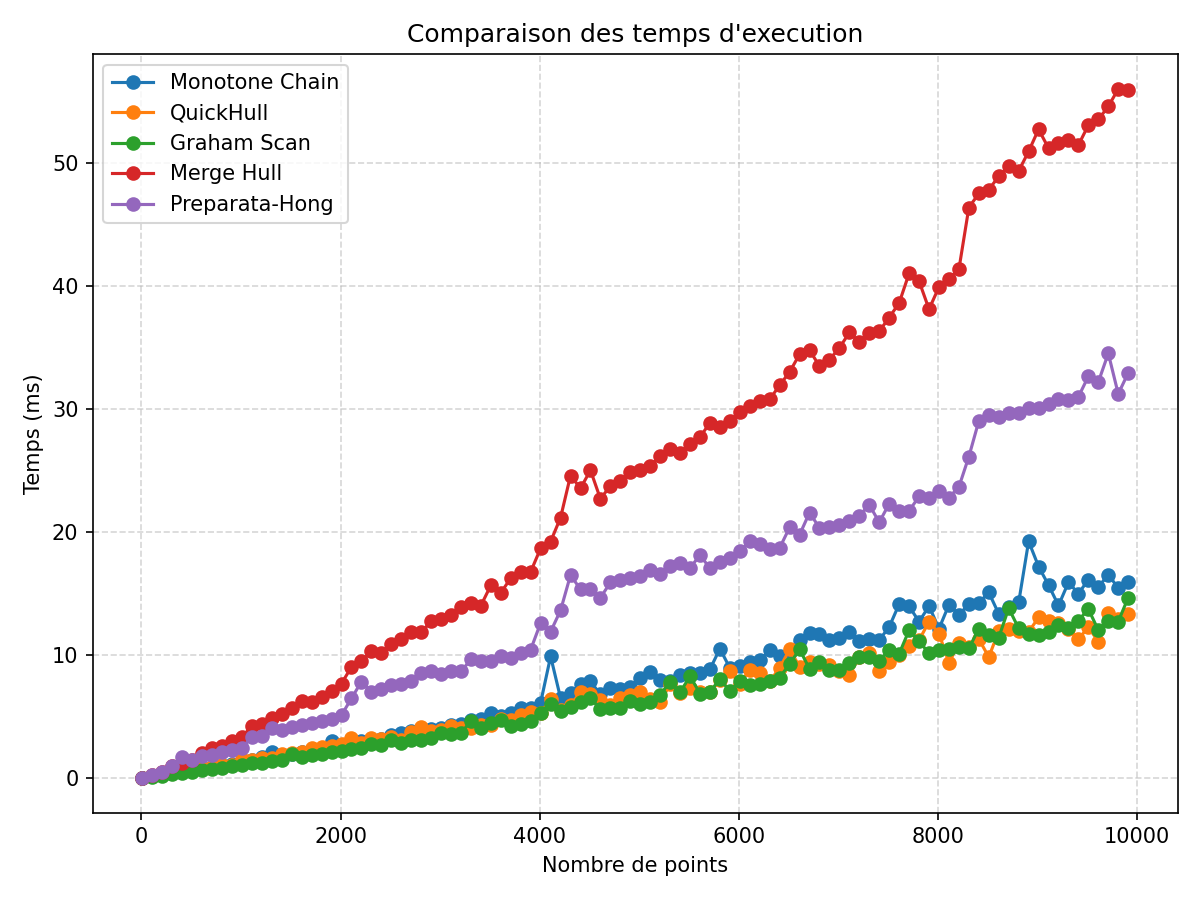
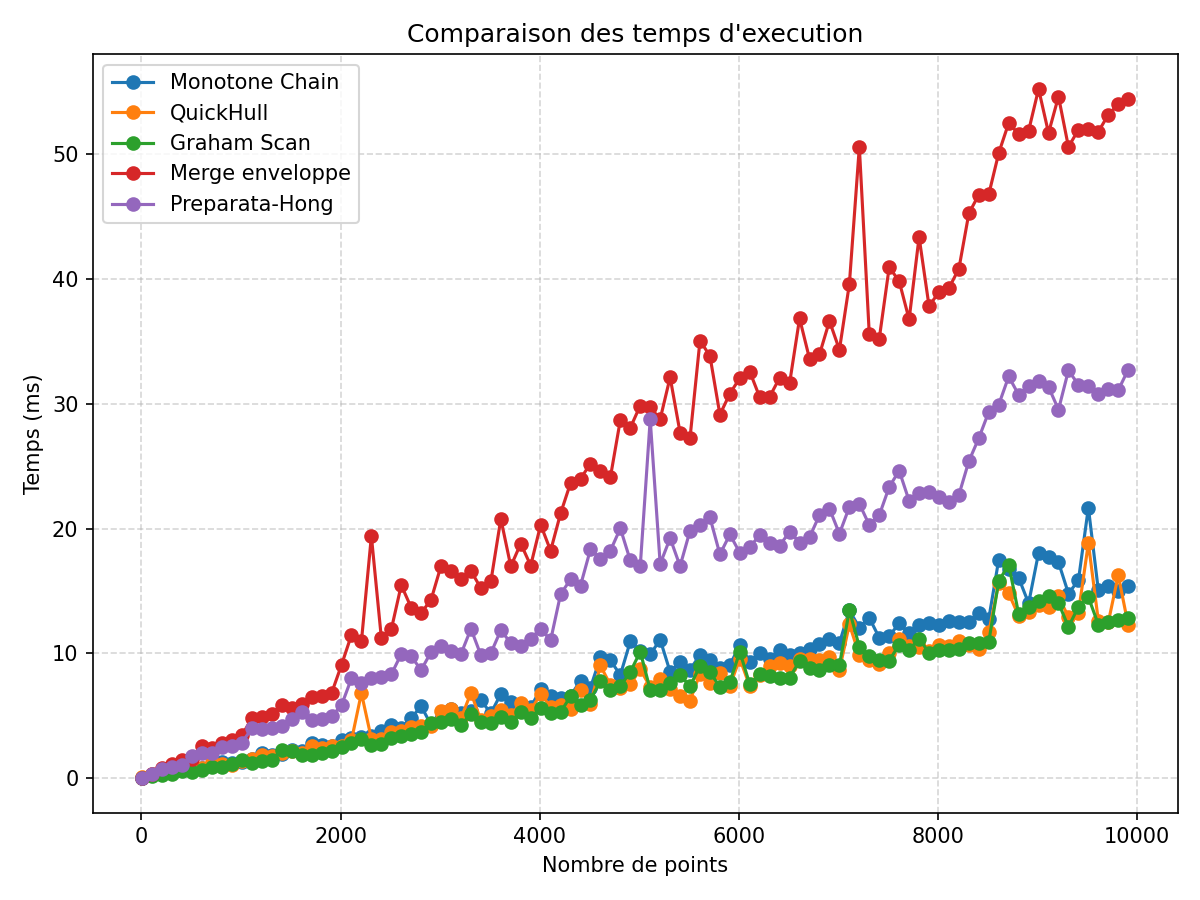
update variables

diff --git a/main.py b/main.py
@@ -10,8 +10,14 @@ Etapes clefs de l'experience:
 from functools import partial
 
 from utils import nuage, benchmark
-from algorithms import *
-from plots.compare import plot_temps, plot_hulls, plot_merge_thresholds
+from algorithms import (
+    enveloppe_monotone,
+    enveloppe_quickhull,
+    enveloppe_graham,
+    merge_hull as merge_enveloppe,
+    preparata_hong,
+)
+from plots.compare import plot_temps, plot_hulls as plot_enveloppes, plot_merge_thresholds
 
 
 def main():
@@ -21,7 +27,7 @@ def main():
         ("Monotone Chain", enveloppe_monotone),
         ("QuickHull", enveloppe_quickhull),
         ("Graham Scan", enveloppe_graham),
-        ("Merge Hull", merge_hull),
+        ("Merge enveloppe", merge_enveloppe),
         ("Preparata-Hong", preparata_hong)
     ]
 
@@ -40,13 +46,13 @@ def main():
 
     plot_temps(tailles, temps, algos)
     
-    #Analyse specifique de Merge Hull: impact du seuil de division sur un nuage fixe.
+    #Analyse specifique de Merge enveloppe: impact du seuil de division sur un nuage fixe.
     seuils = [i for i in range(1, 101, 2)]
     E_merge = nuage(6000)
     temps_merge = []
-    print("\n=== IMPACT DU SEUIL SUR MERGE HULL (nuage fixe) ===")
+    print("\n=== IMPACT DU SEUIL SUR MERGE enveloppe (nuage fixe) ===")
     for seuil in seuils:
-        f_merge = partial(merge_hull, seuil=seuil)
+        f_merge = partial(merge_enveloppe, seuil=seuil)
         tps, nsom = benchmark(f_merge, E_merge)
         temps_merge.append(tps)
         #print(f"seuil={seuil:<3d} | sommets={nsom:3d} | temps={tps:7.2f} ms")
@@ -54,7 +60,7 @@ def main():
 
     # Visualisation finale: toutes les enveloppes d'un meme nuage pour comparer.
     E = nuage(800)
-    plot_hulls(E, algos)
+    plot_enveloppes(E, algos)
 
 
 if __name__ == "__main__":

diff --git a/algorithms/preparata_hong.py b/algorithms/preparata_hong.py
@@ -21,11 +21,11 @@ def preparata_hong(points, seuil=32):
     if len(pts) <= seuil:
         return enveloppe_monotone(pts)
 
-    hull = _divide(pts, seuil)
-    if len(hull) > 2 and area_signed(hull) < 0:
+    enveloppe = _divide(pts, seuil)
+    if len(enveloppe) > 2 and area_signed(enveloppe) < 0:
         # Assure une sortie en sens anti-horaire quel que soit le chemin recursif.
-        hull.reverse()
-    return hull
+        enveloppe.reverse()
+    return enveloppe
 
 
 def _divide(pts, seuil):
@@ -144,11 +144,11 @@ def _orient_sign(a, b, c):
     return 1 if val > 0 else -1
 
 
-def _rightmost_index(hull):
+def _rightmost_index(enveloppe):
     """Renvoie l'indice du point le plus a droite (x max, puis y max)."""
-    return max(range(len(hull)), key=lambda k: (hull[k][0], hull[k][1]))
+    return max(range(len(enveloppe)), key=lambda k: (enveloppe[k][0], enveloppe[k][1]))
 
 
-def _leftmost_index(hull):
+def _leftmost_index(enveloppe):
     """Renvoie l'indice du point le plus a gauche (x min, puis y min)."""
-    return min(range(len(hull)), key=lambda k: (hull[k][0], hull[k][1]))
+    return min(range(len(enveloppe)), key=lambda k: (enveloppe[k][0], enveloppe[k][1]))

diff --git a/algorithms/quickhull.py b/algorithms/quickhull.py
@@ -37,11 +37,11 @@ def enveloppe_quickhull(points):
     left = [p for p in points if det(A, B, p) > 0]
     right = [p for p in points if det(A, B, p) < 0]
 
-    hull = [A] + recurse(A, B, left) + [B] + recurse(B, A, right)
+    enveloppe = [A] + recurse(A, B, left) + [B] + recurse(B, A, right)
 
     # Tri final pour eviter les croisements lors de l'affichage.
-    cx, cy = sum(p[0] for p in hull) / len(hull), sum(p[1] for p in hull) / len(hull)
-    hull = sorted(hull, key=lambda p: m.atan2(p[1] - cy, p[0] - cx))
-    if area_signed(hull) < 0:
-        hull.reverse()
-    return hull
+    cx, cy = sum(p[0] for p in enveloppe) / len(enveloppe), sum(p[1] for p in enveloppe) / len(enveloppe)
+    enveloppe = sorted(enveloppe, key=lambda p: m.atan2(p[1] - cy, p[0] - cx))
+    if area_signed(enveloppe) < 0:
+        enveloppe.reverse()
+    return enveloppe

diff --git a/algorithms/graham.py b/algorithms/graham.py
@@ -11,10 +11,10 @@ def enveloppe_graham(points):
     # Trie les points restants par angle polaire autour du pivot choisi.
     sorted_pts = sorted(P[1:], key=lambda p: m.atan2(p[1] - pivot[1], p[0] - pivot[0]))
 
-    hull = [pivot, sorted_pts[0]]
+    enveloppe = [pivot, sorted_pts[0]]
     for p in sorted_pts[1:]:
         # Tant que l'on forme un virage a droite, on depile le sommet courant.
-        while len(hull) >= 2 and cross(hull[-2], hull[-1], p) <= 0:
-            hull.pop()
-        hull.append(p)
-    return hull
+        while len(enveloppe) >= 2 and cross(enveloppe[-2], enveloppe[-1], p) <= 0:
+            enveloppe.pop()
+        enveloppe.append(p)
+    return enveloppe

diff --git a/algorithms/mergehull.py b/algorithms/mergehull.py
@@ -20,7 +20,7 @@ def merge_hull(points, seuil=64):
 def _fusion(left, right):
     """Recalcule l'enveloppe monotone sur la reunion des sommets partiels."""
     merged = {tuple(p) for p in left + right}
-    hull = enveloppe_monotone(list(merged))
-    if len(hull) > 2 and area_signed(hull) < 0:
-        hull.reverse()
-    return hull
+    enveloppe = enveloppe_monotone(list(merged))
+    if len(enveloppe) > 2 and area_signed(enveloppe) < 0:
+        enveloppe.reverse()
+    return enveloppe

diff --git a/algorithms/monotone.py b/algorithms/monotone.py
@@ -24,8 +24,8 @@ def enveloppe_monotone(points):
             upper.pop()
         upper.append(p)
 
-    hull = lower[:-1] + upper[:-1]
+    enveloppe = lower[:-1] + upper[:-1]
     # Reoriente le polygone en sens anti-horaire si besoin.
-    if area_signed(hull) < 0:
-        hull.reverse()
-    return hull
+    if area_signed(enveloppe) < 0:
+        enveloppe.reverse()
+    return enveloppe

diff --git a/utils.py b/utils.py
@@ -31,7 +31,7 @@ def benchmark(func, points, repeat=3):
     times = []
     for _ in range(repeat):
         start = t.time()
-        hull = func(points)
+        enveloppe = func(points)
         times.append((t.time() - start) * 1000)
     elapsed = stats.median(times)
-    return elapsed, len(hull)
+    return elapsed, len(enveloppe)
